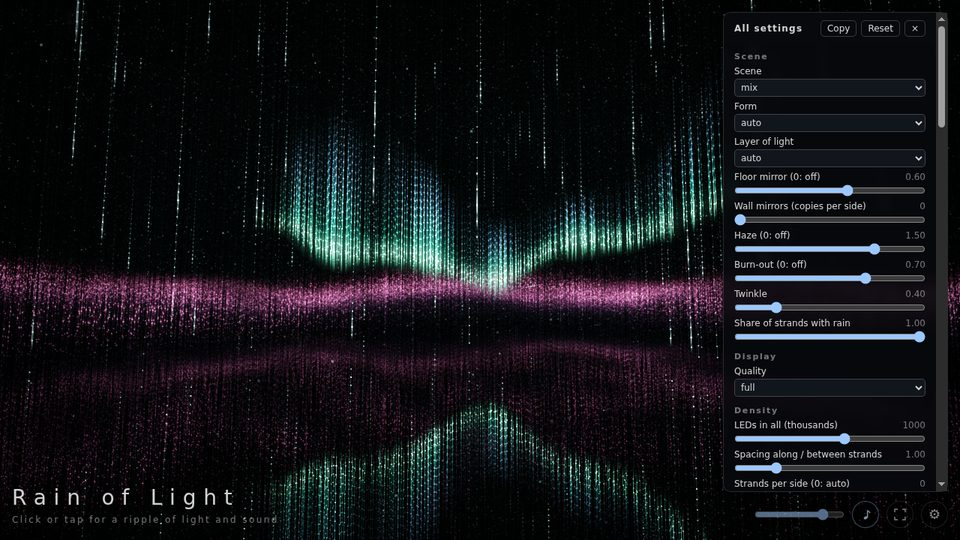
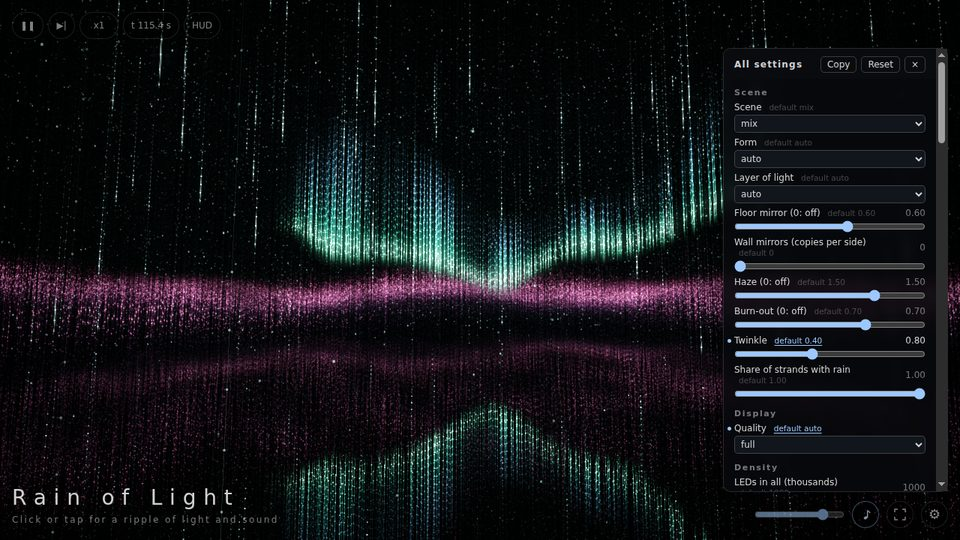
Lab panel: opaque sticky header, docs figure shows the defaults
The rows are positioned now (the dot of a changed row), so they painted over
the sticky header: it has a z-index and an opaque background. The panel
figure of the docs is made again, with a changed row.

Claude-Session: https://claude.ai/code/session_0164gFYjuuY4e2f6YPbyiUFR

diff --git a/style.css b/style.css
@@ -201,7 +201,8 @@ body.idle .full-toggle:focus-visible, body.idle .rotate-toggle:focus-visible, bo
   justify-content: space-between;
   margin: -10px -14px 4px;
   padding: 10px 14px 8px;
-  background: rgba(8, 10, 14, 0.95);
+  z-index: 2;   /* above the rows (they are positioned too) */
+  background: #090b0f;
   letter-spacing: 0.1em;
 }
 .tuner-buttons { display: flex; gap: 6px; }

diff --git a/docs/settings.md b/docs/settings.md
@@ -101,7 +101,7 @@ The site has two pages, with the same picture, keys and URL parameters:
 
 ![The viewer page's small panel at the lower right: Scene, Colour mode, Brightness, Quality and four sound levels, a link to all settings, and the GitHub link](img/viewer-panel.jpg)
 
-![The lab's panel open on the right of the picture: Scene, Form, Layer of light, the mirror sliders and more](img/panel.jpg)
+![The lab's panel open on the right of the picture: Scene, Form, Layer of light, the mirror sliders and more, each row with its default; Twinkle and Quality are not at theirs, and are marked](img/panel.jpg)
 
 The gear button or the `p` key opens the panel; a link that ends in
 `#tune` opens the page with it (`lab.html#tune`: the lab with its panel
